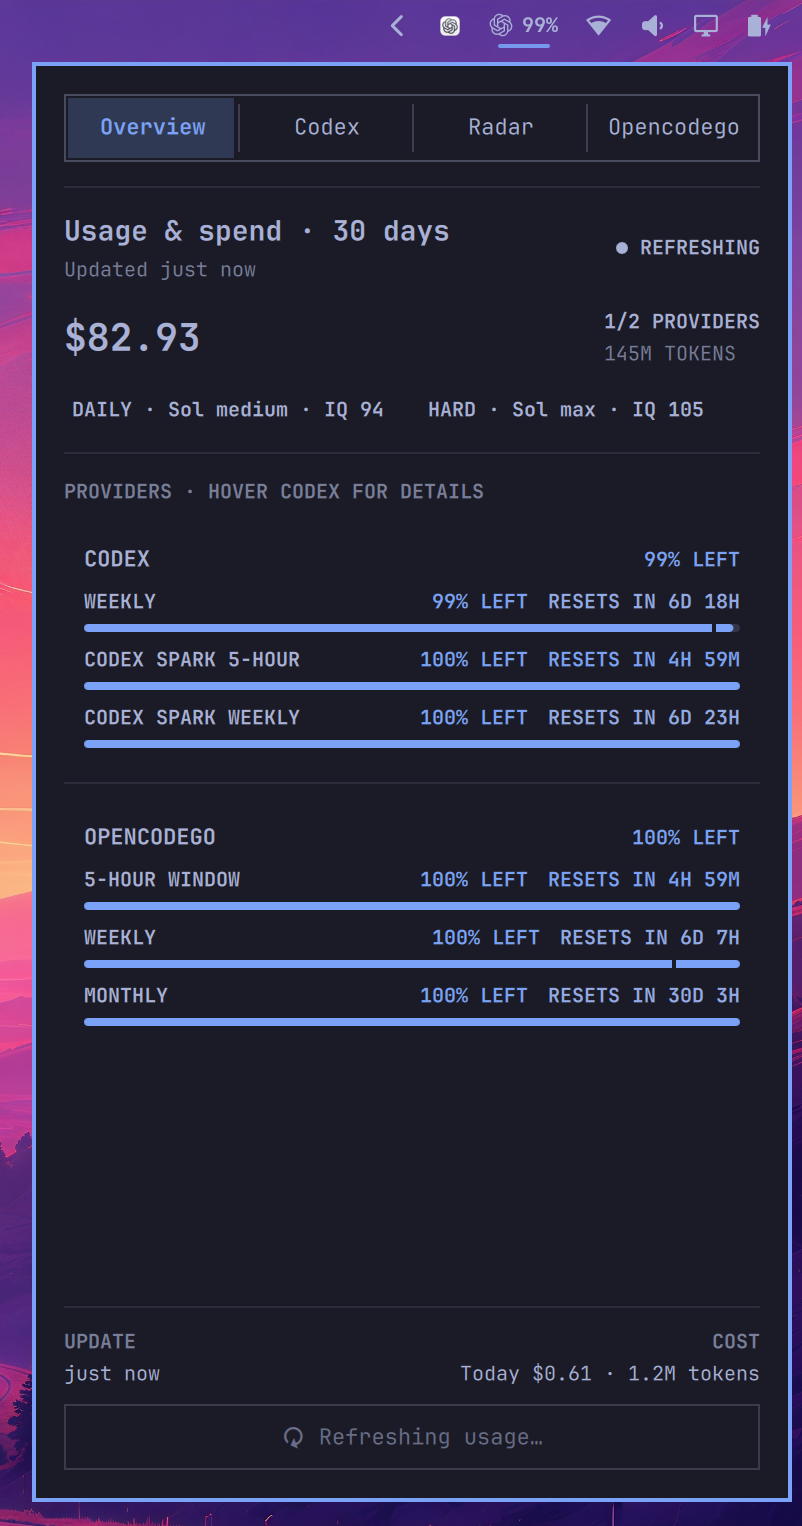
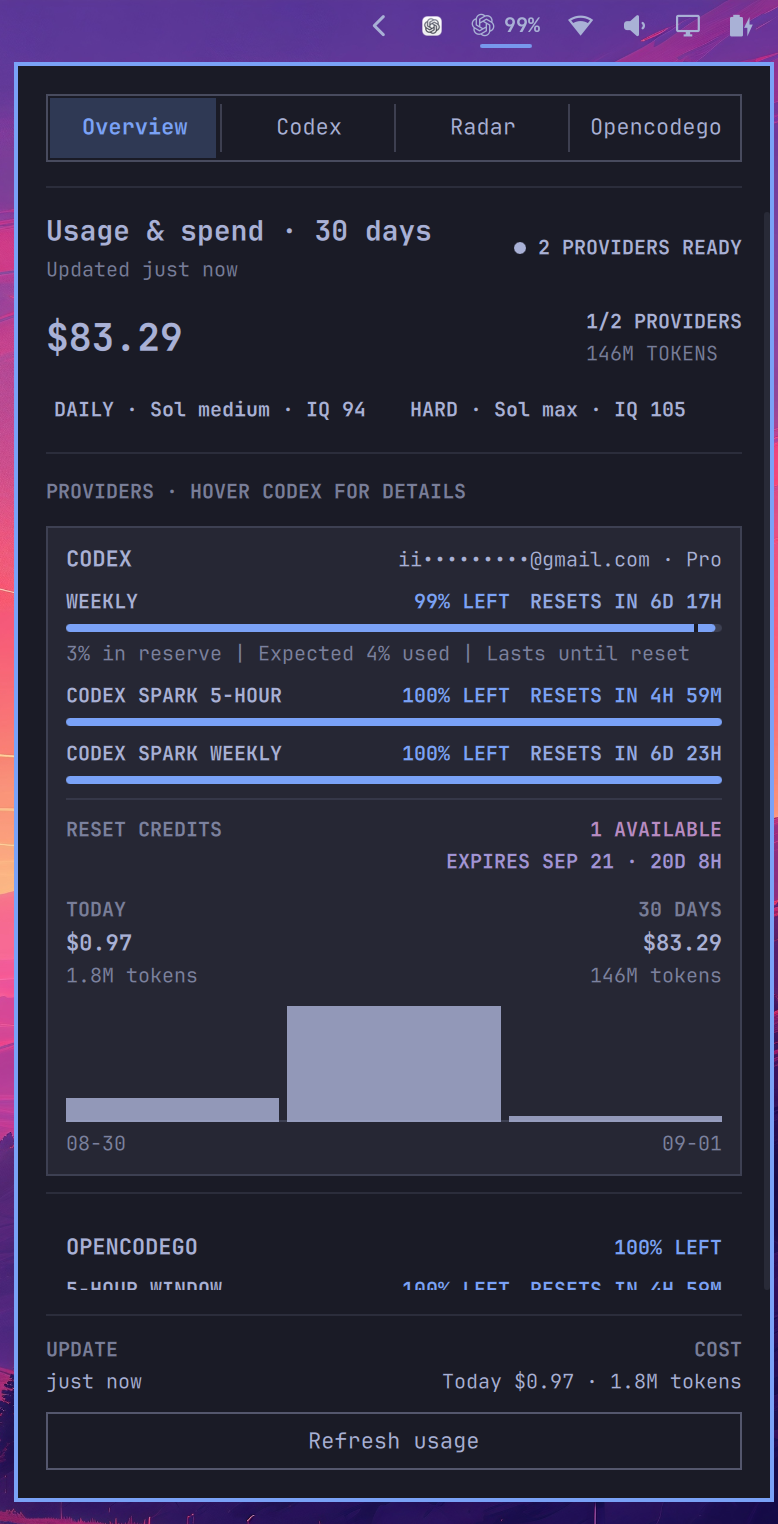
docs: refresh screenshot gallery

diff --git a/README.md b/README.md
@@ -10,9 +10,9 @@ An open-source system tray plugin for Omarchy. It reads AI provider usage, remai
 ## Screenshots
 
 <p align="center">
-  <a href="screenshots/overview.png"><img src="screenshots/overview.png" alt="Overview with expanded Codex usage" width="31.3077%"></a>
-  <a href="screenshots/codex-details.png"><img src="screenshots/codex-details.png" alt="Codex provider details" width="32.1905%"></a>
-  <a href="screenshots/radar.png"><img src="screenshots/radar.png" alt="Codex Radar recommendations" width="32.5018%"></a>
+  <a href="screenshots/overview.png"><img src="screenshots/overview.png" alt="Overview with expanded Codex usage" width="31.0478%"></a>
+  <a href="screenshots/codex-details.png"><img src="screenshots/codex-details.png" alt="Codex provider details" width="32.3198%"></a>
+  <a href="screenshots/radar.png"><img src="screenshots/radar.png" alt="Codex Radar recommendations" width="32.6324%"></a>
 </p>
 
 ## Features

diff --git a/README.zh-CN.md b/README.zh-CN.md
@@ -10,9 +10,9 @@
 ## 界面预览
 
 <p align="center">
-  <a href="screenshots/overview.png"><img src="screenshots/overview.png" alt="展开 Codex 用量的 Overview" width="31.3077%"></a>
-  <a href="screenshots/codex-details.png"><img src="screenshots/codex-details.png" alt="Codex 提供商详情" width="32.1905%"></a>
-  <a href="screenshots/radar.png"><img src="screenshots/radar.png" alt="Codex Radar 模型推荐" width="32.5018%"></a>
+  <a href="screenshots/overview.png"><img src="screenshots/overview.png" alt="展开 Codex 用量的 Overview" width="31.0478%"></a>
+  <a href="screenshots/codex-details.png"><img src="screenshots/codex-details.png" alt="Codex 提供商详情" width="32.3198%"></a>
+  <a href="screenshots/radar.png"><img src="screenshots/radar.png" alt="Codex Radar 模型推荐" width="32.6324%"></a>
 </p>
 
 ## 功能
